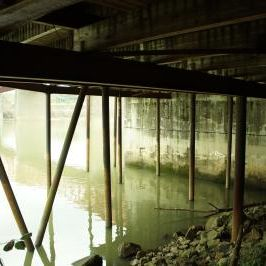
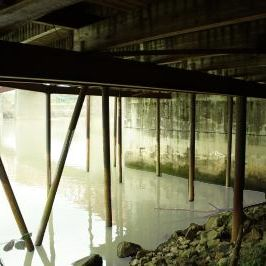
something swan lake

diff --git a/gatherings/forest/9swan_lake.html b/gatherings/forest/9swan_lake.html
@@ -9,8 +9,13 @@
 
         let swanOpen = false
         let swanY = 0
+        let clickedSwan = false
         const swanFlySpeed = 0.25
         window.onclickswan = function () {
+            if (!clickedSwan) {
+                document.getElementById('swanvideo').src = "http://www.youtube.com/embed/jjDYW46PjA8?autoplay=1"
+                clickedSwan = true
+            }
             Frames.show('pwnd')
 
             document.getElementById('swan').src =
@@ -69,10 +74,11 @@
 <body>
     <div class="container">
         <main class="content">
-            <img class="background" src="./images/swan_lake.jpg"></img>
-            <img id="swan" class="swan" onclick="window.onclickswan()" src="./images/swanglasses_shady.png"></img>
-            <a class="hotspot" href="../../games/guttersour/WEB/index.html"
-                style="left: 58%; top: 75.666%; width: 12%; height: 5%"></a>
+            <iframe id="swanvideo" style="position: absolute; top:0; left:0; z-index: -1;" width="100%" height="100%"
+                src="about:blank" frameborder="0"
+                allow="accelerometer; autoplay; clipboard-write; encrypted-media; gyroscope; picture-in-picture"
+                allowfullscreen></iframe>
+            <img class="background" src="./images/swan_lake.png"></img>
             <section id="frames" class="Frames">
                 <draggable-frame hidden id="pwnd" x=20 y=30 width=20 height=25 bodyClass="transparentframe">
                     <div class="speechbubble">
@@ -86,6 +92,11 @@
                     </div>
                 </draggable-frame>
             </section>
+
+            <a class="hotspot" href="../../games/guttersour/WEB/index.html"
+                style="left: 58%; top: 75.666%; width: 12%; height: 5%"></a>
+            <img id="swan" class="swan" onclick="window.onclickswan()" src="./images/swanglasses_shady.png"></img>
+
         </main>
     </div>
 </body>

diff --git a/gatherings/forest/common.js b/gatherings/forest/common.js
@@ -3,7 +3,9 @@ window.onload = () => {
   var links = Array.from(document.getElementsByTagName('a'))
   links.forEach((el) => {
     if (links.attributes && links.attributes.target.value === '_blank') return
-    links.el.href += '?r=' + Math.random()
+    if (links.el) {
+      links.el.href += '?r=' + Math.random()
+    }
   })
 
   var iframes = Array.from(document.getElementsByTagName('iframe'))
